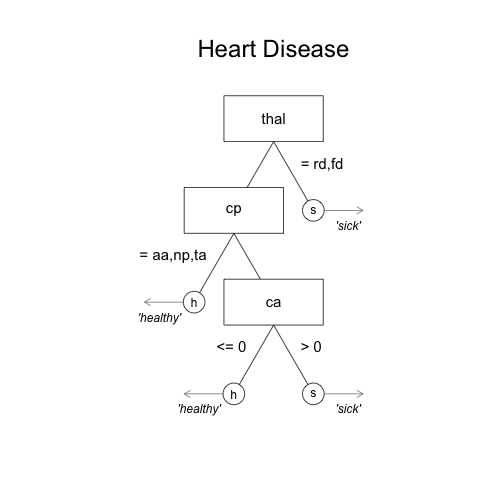
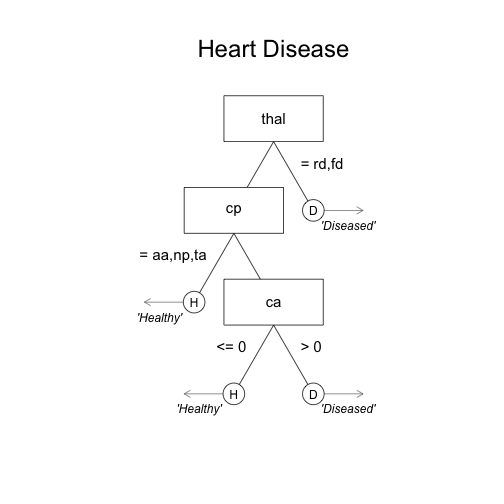
publishing deck

diff --git a/index.html b/index.html
@@ -396,19 +396,43 @@ heart.fft
   <!-- Presenter Notes -->
 </slide>
 
-<slide class="class" id="id" style="background:;">
-  <hgroup>
-    <h2>Heart Disease FFT</h2>
-  </hgroup>
+<slide class="" id="slide-15" style="background:;">
   <article data-timings="">
-    <pre><code class="r">plot(heart.fft, 
-     main = &quot;Heart Disease&quot;, 
-     decision.names = c(&quot;healthy&quot;, &quot;sick&quot;),
-     stats = FALSE)
-</code></pre>
+    
+<div style='float:left;width:48%;' class='centered'>
+  <h2>Heart Disease FFT</h2>
 
 <p><img src="figure/unnamed-chunk-16-1.png" title="plot of chunk unnamed-chunk-16" alt="plot of chunk unnamed-chunk-16" style="display: block; margin: auto;" /></p>
 
+</div>
+<div style='float:right;width:48%;'>
+  <h3>3 cues</h3>
+
+<table><thead>
+<tr>
+<th align="left">cue</th>
+<th align="left">description</th>
+<th align="left">values</th>
+</tr>
+</thead><tbody>
+<tr>
+<td align="left"><code>thal</code></td>
+<td align="left">thallium scintigraphy, a nuclear imaging test that shows how well blood flows into the heart.</td>
+<td align="left">normal (n), indicate a fixed defect (fd), or a reversible defect (rd)</td>
+</tr>
+<tr>
+<td align="left"><code>cp</code></td>
+<td align="left">Chest pain type</td>
+<td align="left">Typical angina (ta), atypical angina (aa), non-anginal pain (np), or asymptomatic (a)</td>
+</tr>
+<tr>
+<td align="left"><code>ca</code></td>
+<td align="left">Number of major vessels colored by flourosopy, a continuous x-ray imaging tool</td>
+<td align="left">0, 1, 2 or 3</td>
+</tr>
+</tbody></table>
+
+</div>
   </article>
   <!-- Presenter Notes -->
 </slide>
@@ -928,7 +952,7 @@ heart.fft
     </li>
     <li>
       <a href="#" target="_self" rel='tooltip' 
-        data-slide=15 title='Heart Disease FFT'>
+        data-slide=15 title='NA'>
          15
       </a>
     </li>

diff --git a/index.md b/index.md
@@ -282,18 +282,25 @@ heart.fft
 ## spec   0.79   0.76
 ```
 
---- .class #id 
+--- &twocol
+
+*** =left
+
 ## Heart Disease FFT
-
-```r
-plot(heart.fft, 
-     main = "Heart Disease", 
-     decision.names = c("healthy", "sick"),
-     stats = FALSE)
-```
-
 <img src="figure/unnamed-chunk-16-1.png" title="plot of chunk unnamed-chunk-16" alt="plot of chunk unnamed-chunk-16" style="display: block; margin: auto;" />
 
+
+
+*** =right
+
+### 3 cues
+
+
+| cue| description|values |
+|:------|:----|:-----|
+|     `thal`|    thallium scintigraphy, a nuclear imaging test that shows how well blood flows into the heart.|normal (n), indicate a fixed defect (fd), or a reversible defect (rd)     |
+|     `cp`|    Chest pain type| Typical angina (ta), atypical angina (aa), non-anginal pain (np), or asymptomatic (a)     |
+|     `ca`| Number of major vessels colored by flourosopy, a continuous x-ray imaging tool|0, 1, 2 or 3 |
 
 
 --- .class #id 
